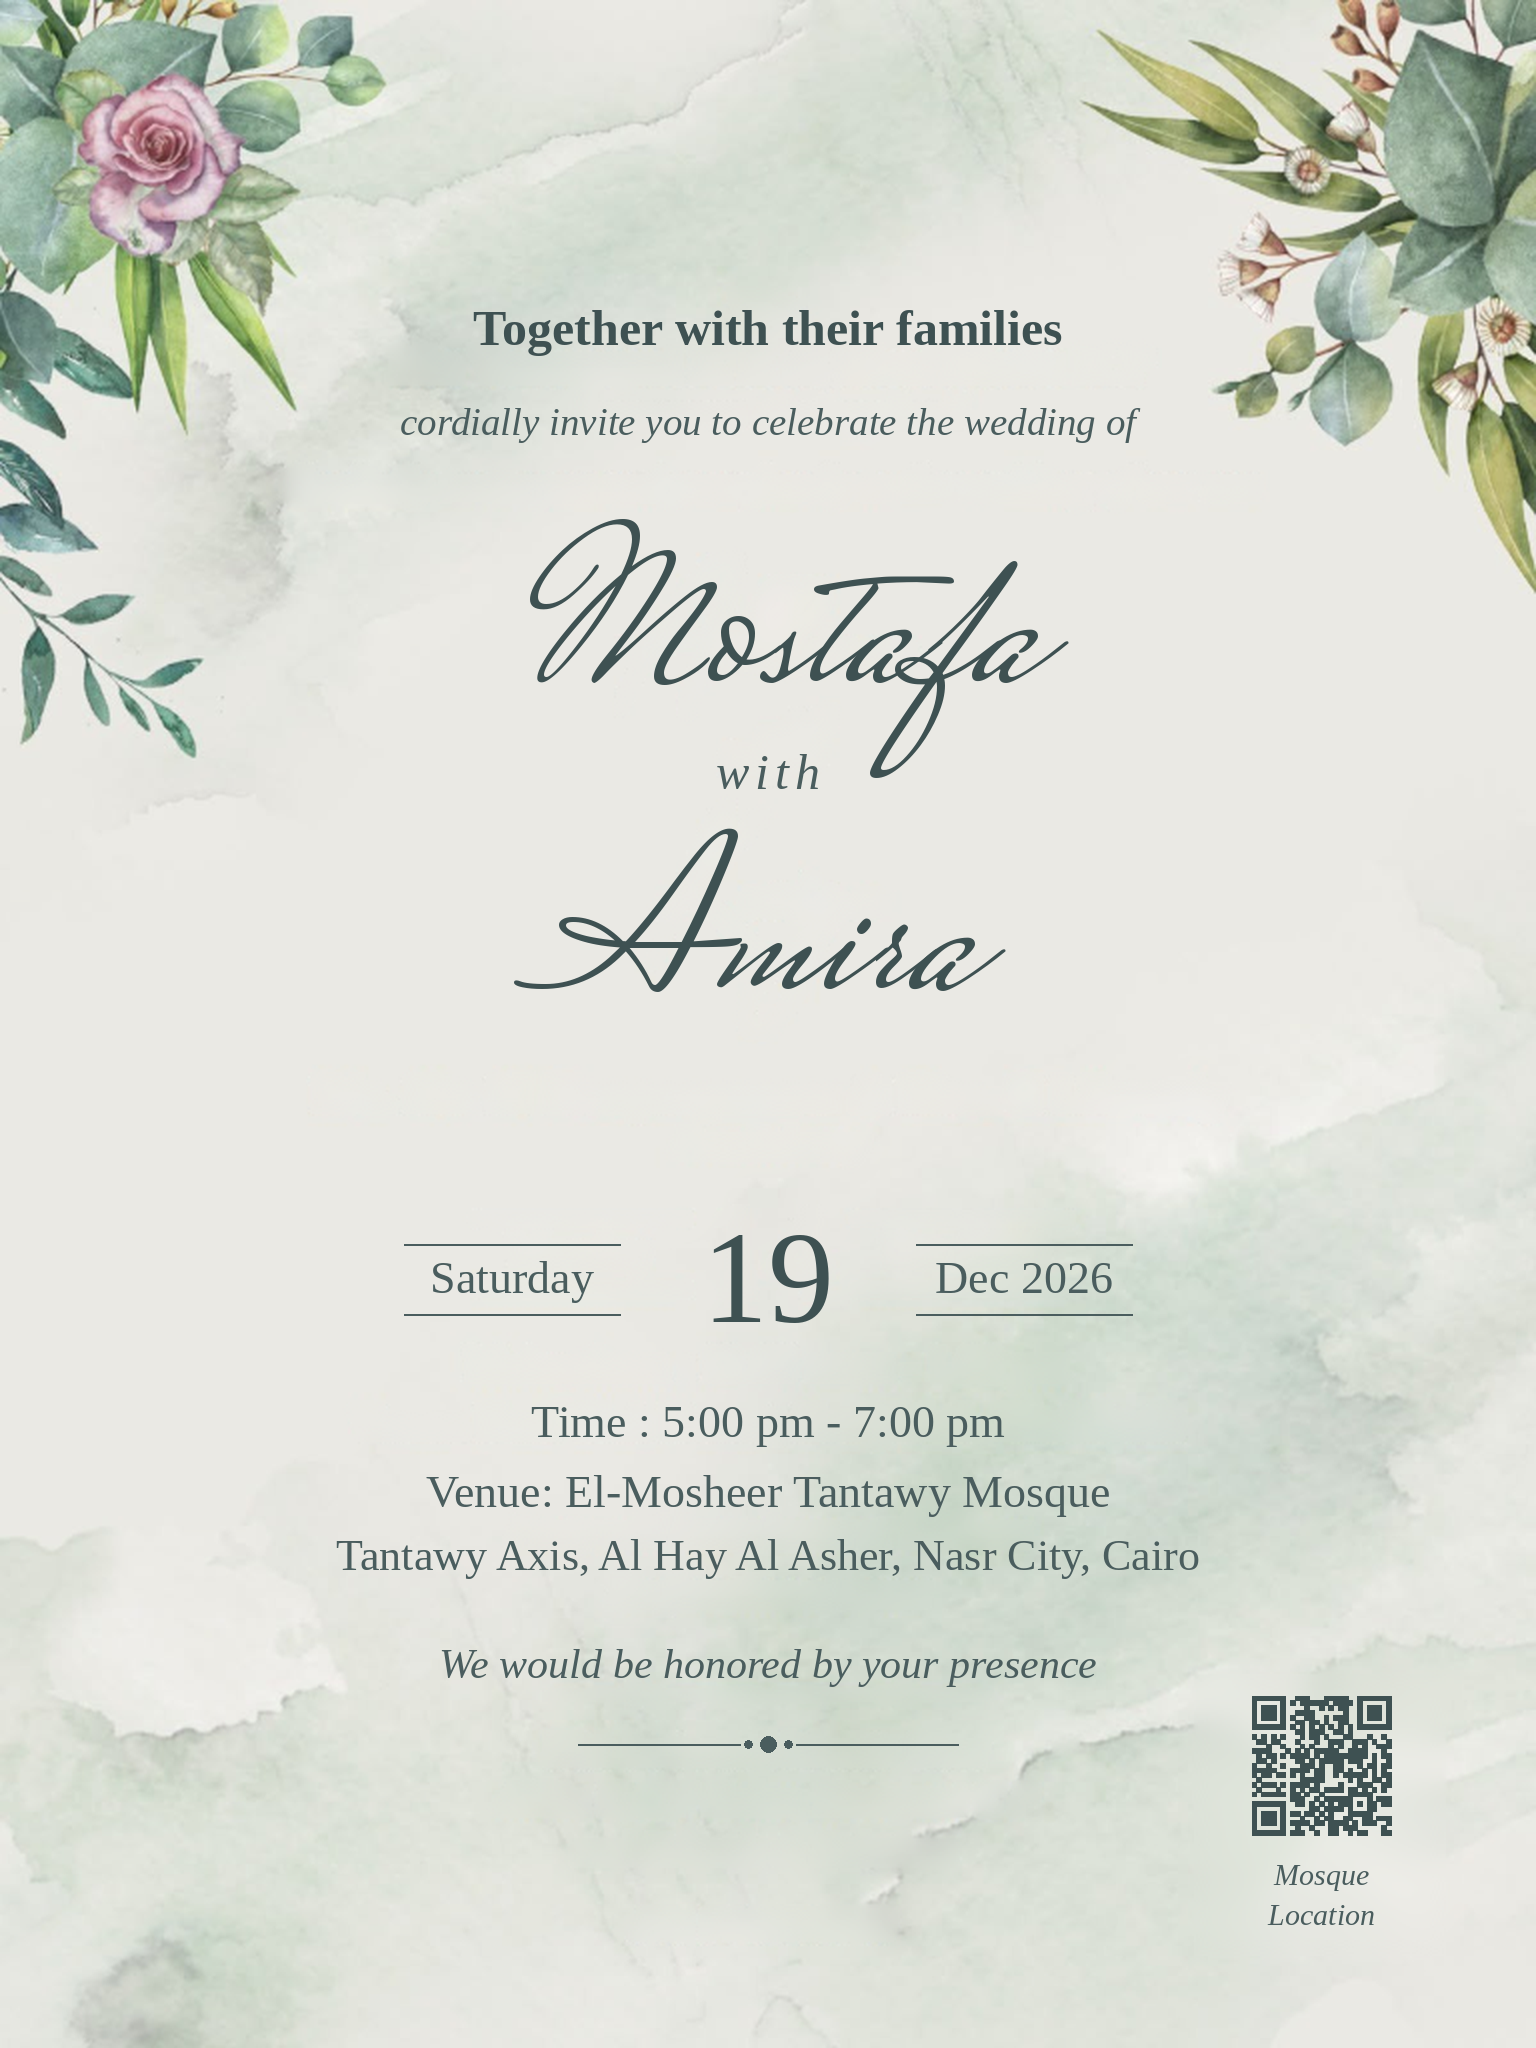
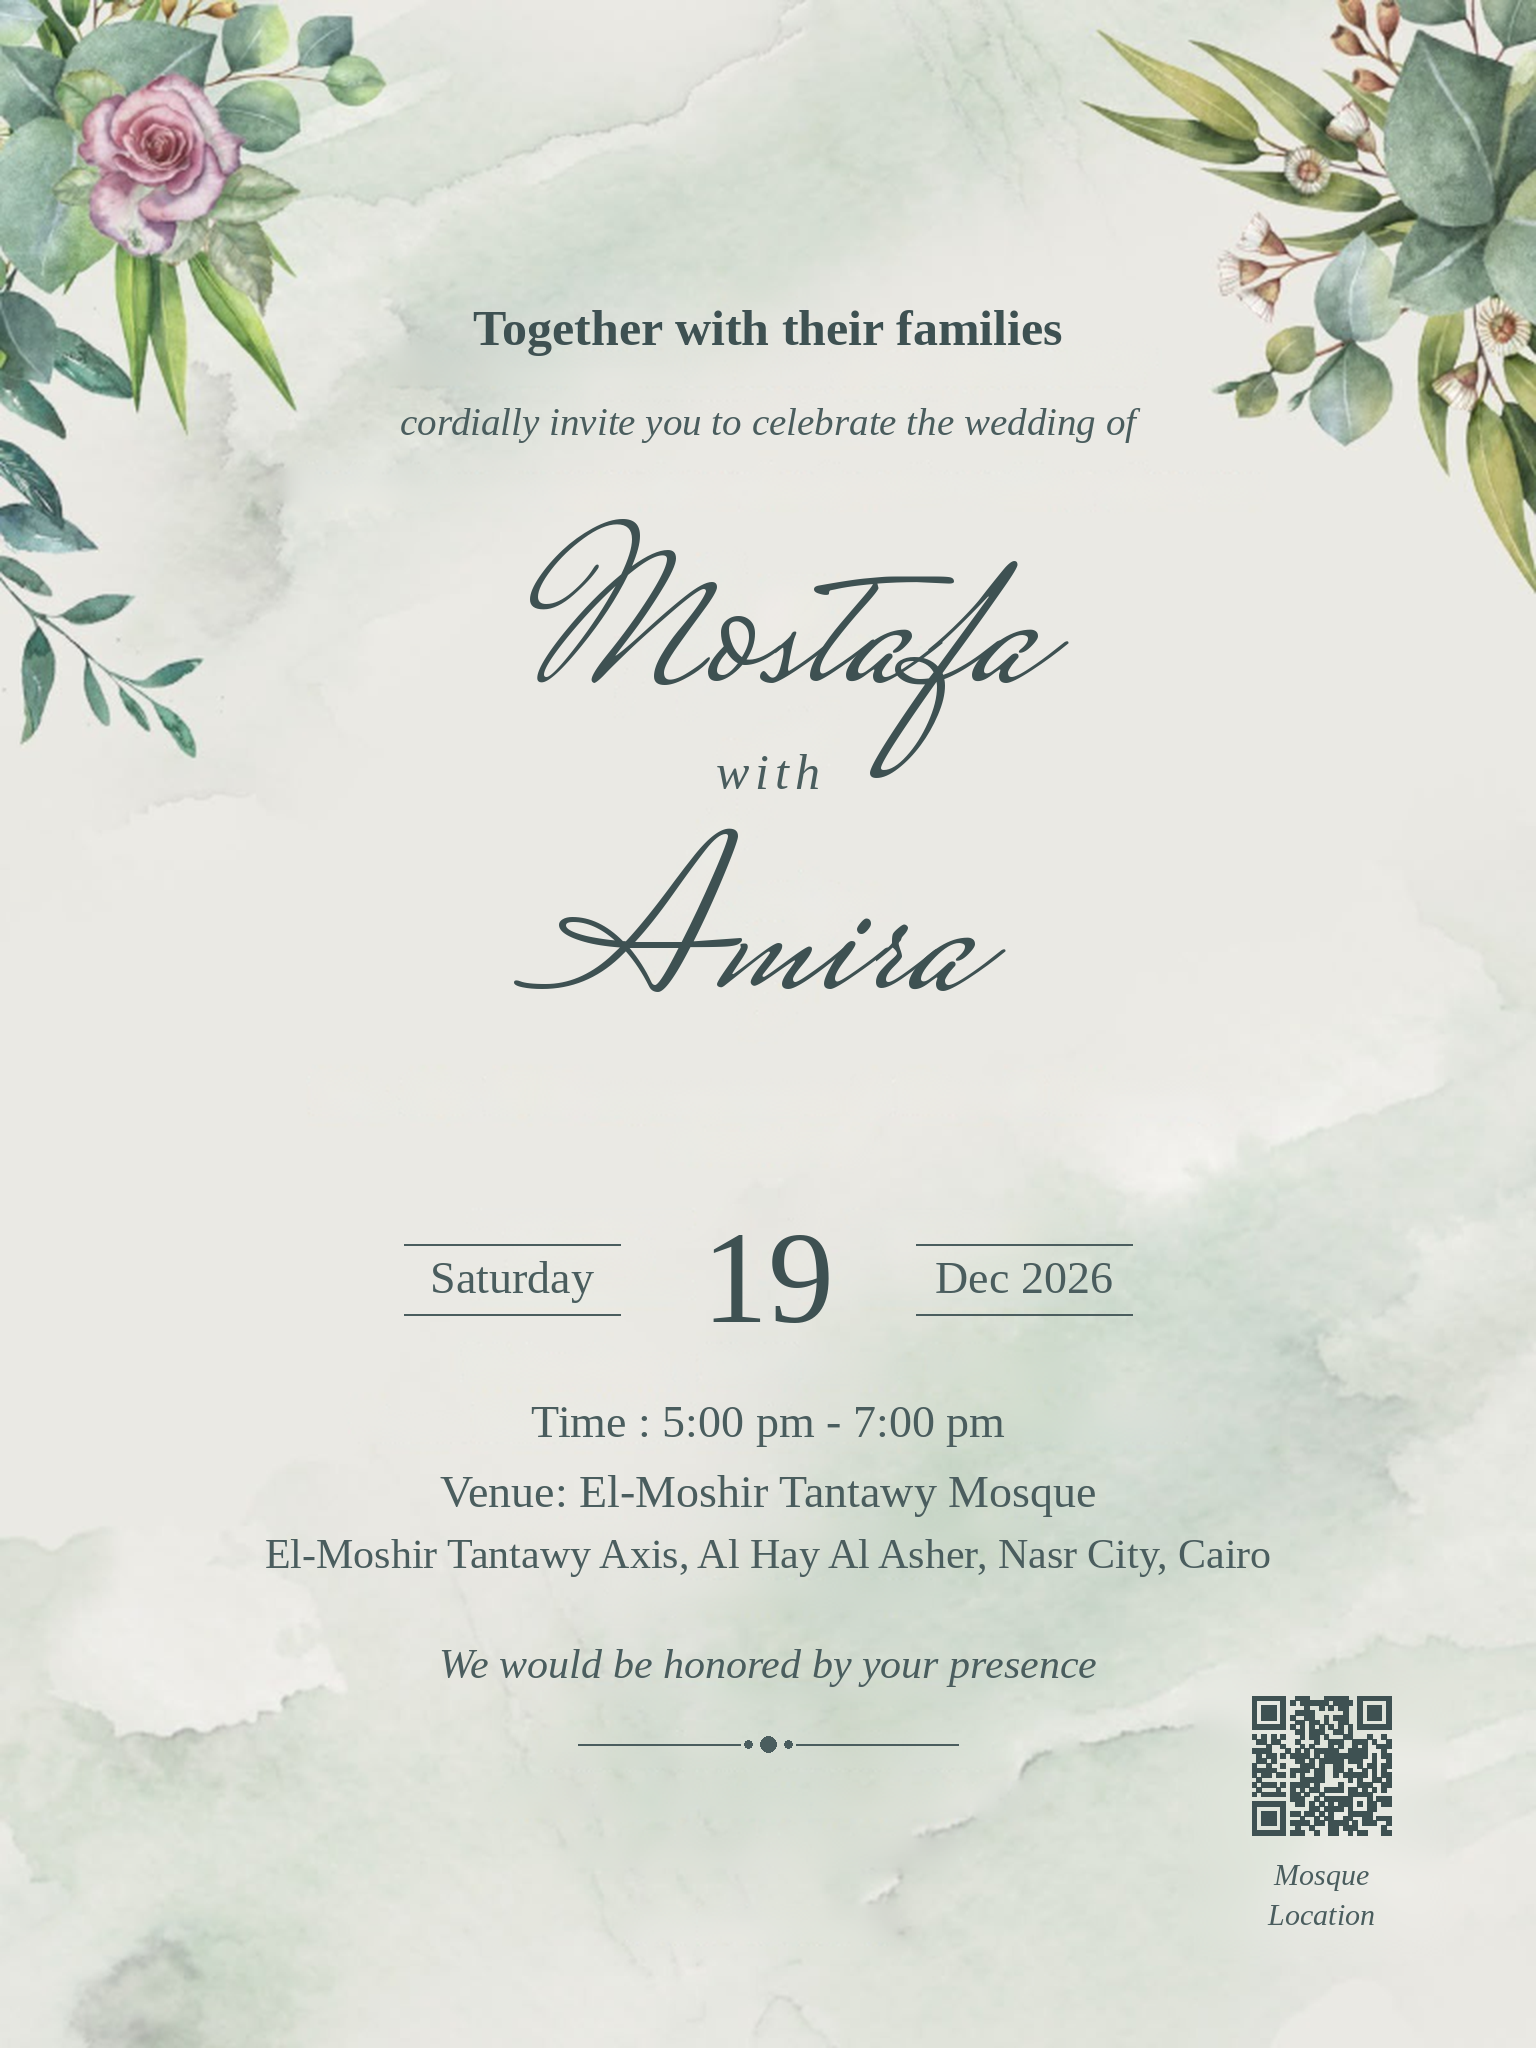
last commit message

Changed region(s): [[0.1875, 0.7188, 0.8125, 0.7812]]

diff --git a/index.html b/index.html
@@ -5,12 +5,12 @@
   <meta name="viewport" content="width=device-width, initial-scale=1.0" />
   <title>Mostafa &amp; Amira — Wedding Invitation | 19 Dec 2026</title>
   <link rel="preload" href="assets/song-v2.mp3" as="audio" />
-  <meta name="description" content="You are invited to the wedding of Mostafa &amp; Amira. Saturday, 19 December 2026 at El-Mosheer Tantawy Mosque, New Cairo." />
+  <meta name="description" content="You are invited to the wedding of Mostafa &amp; Amira. Saturday, 19 December 2026 · El-Moshir Tantawy Mosque, El-Moshir Tantawy Axis, Al Hay Al Asher, Nasr City, Cairo." />
 
   <meta property="og:type" content="website" />
   <meta property="og:site_name" content="Mostafa &amp; Amira" />
   <meta property="og:title" content="Mostafa &amp; Amira — Wedding Invitation" />
-  <meta property="og:description" content="Saturday, 19 December 2026 · El-Mosheer Tantawy Mosque, New Cairo" />
+  <meta property="og:description" content="Saturday, 19 December 2026 · El-Moshir Tantawy Mosque, El-Moshir Tantawy Axis, Al Hay Al Asher, Nasr City, Cairo." />
   <meta property="og:url" content="https://wedding.wala3695.workers.dev/" />
   <meta property="og:image" content="https://wedding.wala3695.workers.dev/assets/og-image.jpg" />
   <meta property="og:image:width" content="1200" />
@@ -312,7 +312,8 @@
         </div>
 
         <p class="muhurtham-line">Time : 5:00 pm - 7:00 pm</p>
-        <p class="venue-line">Venue: El-Mosheer Tantawy Mosque, Nasr City, Cairo</p>
+        <p class="venue-line" style="margin-bottom: 0.3rem;">Venue: El-Moshir Tantawy Mosque</p>
+        <p class="residence-line" style="margin-top: 0; margin-bottom: 1.5rem;"><span class="nw">El-Moshir Tantawy Axis,</span> <span class="nw">Al Hay Al Asher,</span> <span class="nw">Nasr City, Cairo</span></p>
 
         <!-- Live Countdown to Dec 19, 2026 12:00 PM IST -->
         <div class="countdown-grid" id="countdown-timer" aria-label="Countdown to Wedding Muhurtham">
@@ -337,7 +338,7 @@
         <div class="btn-group">
           <a
             id="google-cal-btn"
-            href="https://calendar.google.com/calendar/render?action=TEMPLATE&text=Wedding+of+Mostafa+and+Amira&dates=20261219T150000Z/20261219T170000Z&details=You+are+invited+to+the+wedding+of+Mostafa+and+Amira&location=El-Mosheer+Tantawy+Mosque,+Al+Hay+Al+Asher,+Nasr+City,+Cairo"
+            href="https://calendar.google.com/calendar/render?action=TEMPLATE&text=Wedding+of+Mostafa+and+Amira&dates=20261219T150000Z/20261219T170000Z&details=You+are+invited+to+the+wedding+of+Mostafa+and+Amira&location=El-Moshir+Tantawy+Axis,+Al+Hay+Al+Asher,+Nasr+City,+Cairo"
             target="_blank"
             rel="noopener noreferrer"
             class="btn-primary"
@@ -362,15 +363,14 @@
       <div class="watercolor-card reveal-card">
         <div class="eyebrow-badge" data-speed="-0.15" data-scroll-speed="-1">✦ Venue &amp; Travel Details ✦</div>
 
-        <h2 class="parents-names" style="margin-bottom: 0.4rem;">El-Mosheer Tantawy Mosque</h2>
-        <p class="residence-line" style="margin-bottom: 1rem;">Nasr City, Cairo</p>
-
+        <h2 class="parents-names" style="margin-bottom: 0.4rem;">El-Moshir Tantawy Mosque</h2>
+        <p class="residence-line" style="margin-bottom: 1rem;"><span class="nw">El-Moshir Tantawy Axis,</span> <span class="nw">Al Hay Al Asher,</span> <span class="nw">Nasr City, Cairo</span></p>
     
         <div class="venue-parking-grid" data-speed="0.08" data-scroll-speed="0.6">
           <div class="venue-details-pane">
             <p class="muhurtham-line" style="font-size: 1.3rem;">Time : 5:00 pm - 7:00 pm</p>
             <p style="font-size: 1.15rem; color: var(--text-secondary); line-height: 1.55; margin-bottom: 1.25rem;">
-              Join us at El-Mosheer Tantawy Mosque, Tantawy Axis, Al Hay Al Asher, Nasr City, Cairo on Saturday, 19th December 2026.
+              Join us at El-Moshir Tantawy Mosque on Saturday, 19th December 2026. Scan or tap the QR code to open the mosque location on the map.
             </p>
             <div class="btn-group" style="justify-content: flex-start;">
               <a
@@ -384,12 +384,12 @@
             </div>
           </div>
 
-          <!-- El-Mosheer Tantawy Mosque Parking Area QR Code (Generated for https://maps.app.goo.gl/ttpjHp7d5T87crdg7) -->
-          <div class="qr-card-pane" id="qr-enlarge-trigger" role="button" tabindex="0" aria-label="Enlarge El-Mosheer Tantawy Mosque QR Code">
+          <!-- El-Moshir Tantawy Mosque Parking Area QR Code (Generated for https://maps.app.goo.gl/ttpjHp7d5T87crdg7) -->
+          <div class="qr-card-pane" id="qr-enlarge-trigger" role="button" tabindex="0" aria-label="Enlarge El-Moshir Tantawy Mosque QR Code">
             <div class="qr-canvas-wrap">
               <canvas id="parking-qr-canvas" width="297" height="297"></canvas>
             </div>
-            <p class="qr-caption-title">El-Mosheer Tantawy Mosque<br/>Location</p>
+            <p class="qr-caption-title">El-Moshir Tantawy Mosque<br/>Location</p>
             <p class="qr-caption-hint">Tap to Enlarge &amp; Scan</p>
           </div>
         </div>
@@ -431,10 +431,12 @@
               class="contact-info-item"
             >
               <div class="contact-icon-circle">📍</div>
-              <div class="contact-info-text">
+                            <div class="contact-info-text">
                 <span class="contact-label">Wedding Venue (19 Dec 2026)</span>
-                <strong class="contact-value">El-Mosheer Tantawy Mosque</strong>
-                <span class="contact-sub">Tantawy Axis, Al Hay Al Asher, Nasr City, Cairo</span>
+                <strong class="contact-value">El-Moshir Tantawy Mosque</strong>
+                <span class="contact-sub">El-Moshir Tantawy Axis,</span>
+                <span class="contact-sub">Al Hay Al Asher,</span>
+                <span class="contact-sub">Nasr City, Cairo</span>
                 <span class="contact-sub">Time: 5:00 pm – 7:00 pm</span>
               </div>
             </a>
@@ -451,7 +453,7 @@
 
   <!-- Footer -->
   <footer class="site-footer">
-    <p>19 Dec 2026 • El-Mosheer Tantawy Mosque, New Cairo</p>
+        <p>19 Dec 2026 • <span class="nw">El-Moshir Tantawy Axis,</span> <span class="nw">Al Hay Al Asher,</span> <span class="nw">Nasr City, Cairo</span></p>
   </footer>
 
   <!-- Lightbox Modal for Full Invitation Card / Enlarged QR Code -->
@@ -468,7 +470,7 @@
             <canvas id="modal-qr-canvas" width="330" height="330"></canvas>
           </div>
           <p style="font-size: 1.3rem; font-style: italic; font-weight: 600;">Mosque Location</p>
-          <p style="font-size: 1rem; color: var(--text-secondary); margin: 0.35rem 0 0.85rem;">Scan with your phone camera or tap below for directions to El-Mosheer Tantawy Mosque, Tantawy Axis, Al Hay Al Asher, Nasr City, Cairo.</p>
+          <p style="font-size: 1rem; color: var(--text-secondary); margin: 0.35rem 0 0.85rem;">Scan with your phone camera or tap below for directions to El-Moshir Tantawy Mosque, El-Moshir Tantawy Axis, Al Hay Al Asher, Nasr City, Cairo.</p>
           <a href="https://maps.app.goo.gl/P3iQJfDU3Lzh41ey6" target="_blank" rel="noopener noreferrer" class="btn-secondary">
             <span>📍 Open Location in Google Maps</span>
           </a>

diff --git a/styles.css b/styles.css
@@ -1126,3 +1126,32 @@ a.contact-info-item:hover {
   font-size: clamp(0.68rem, 3.4vw, 1rem);
   white-space: nowrap;
 }
+.nw {
+  white-space: nowrap;
+}
+.contact-sub {
+  white-space: nowrap;
+}
+
+@media (max-width: 480px) {
+  .contact-icon-circle {
+    display: none;
+  }
+  .contact-info-item {
+    justify-content: center;
+    text-align: center;
+    padding: 0.85rem 0.9rem;
+  }
+  .contact-info-text {
+    align-items: center;
+  }
+  .contact-label {
+    font-size: 0.56rem;
+    letter-spacing: 0.1em;
+    white-space: nowrap;
+  }
+  .contact-value {
+    font-size: 1.05rem;
+    white-space: nowrap;
+  }
+}

diff --git a/app.js b/app.js
@@ -1088,7 +1088,7 @@
           'DTEND:20261219T170000Z',
           'SUMMARY:Wedding of Mostafa and Amira',
           'DESCRIPTION:You are invited to the wedding of Mostafa and Amira on Saturday 19 December 2026 from 5:00 pm to 7:00 pm.',
-          'LOCATION:El-Mosheer Tantawy Mosque, Al Hay Al Asher, Nasr City, Cairo',
+          'LOCATION:El-Moshir Tantawy Axis, Al Hay Al Asher, Nasr City, Cairo',
           'END:VEVENT',
           'END:VCALENDAR'
         ].join('\r\n');
